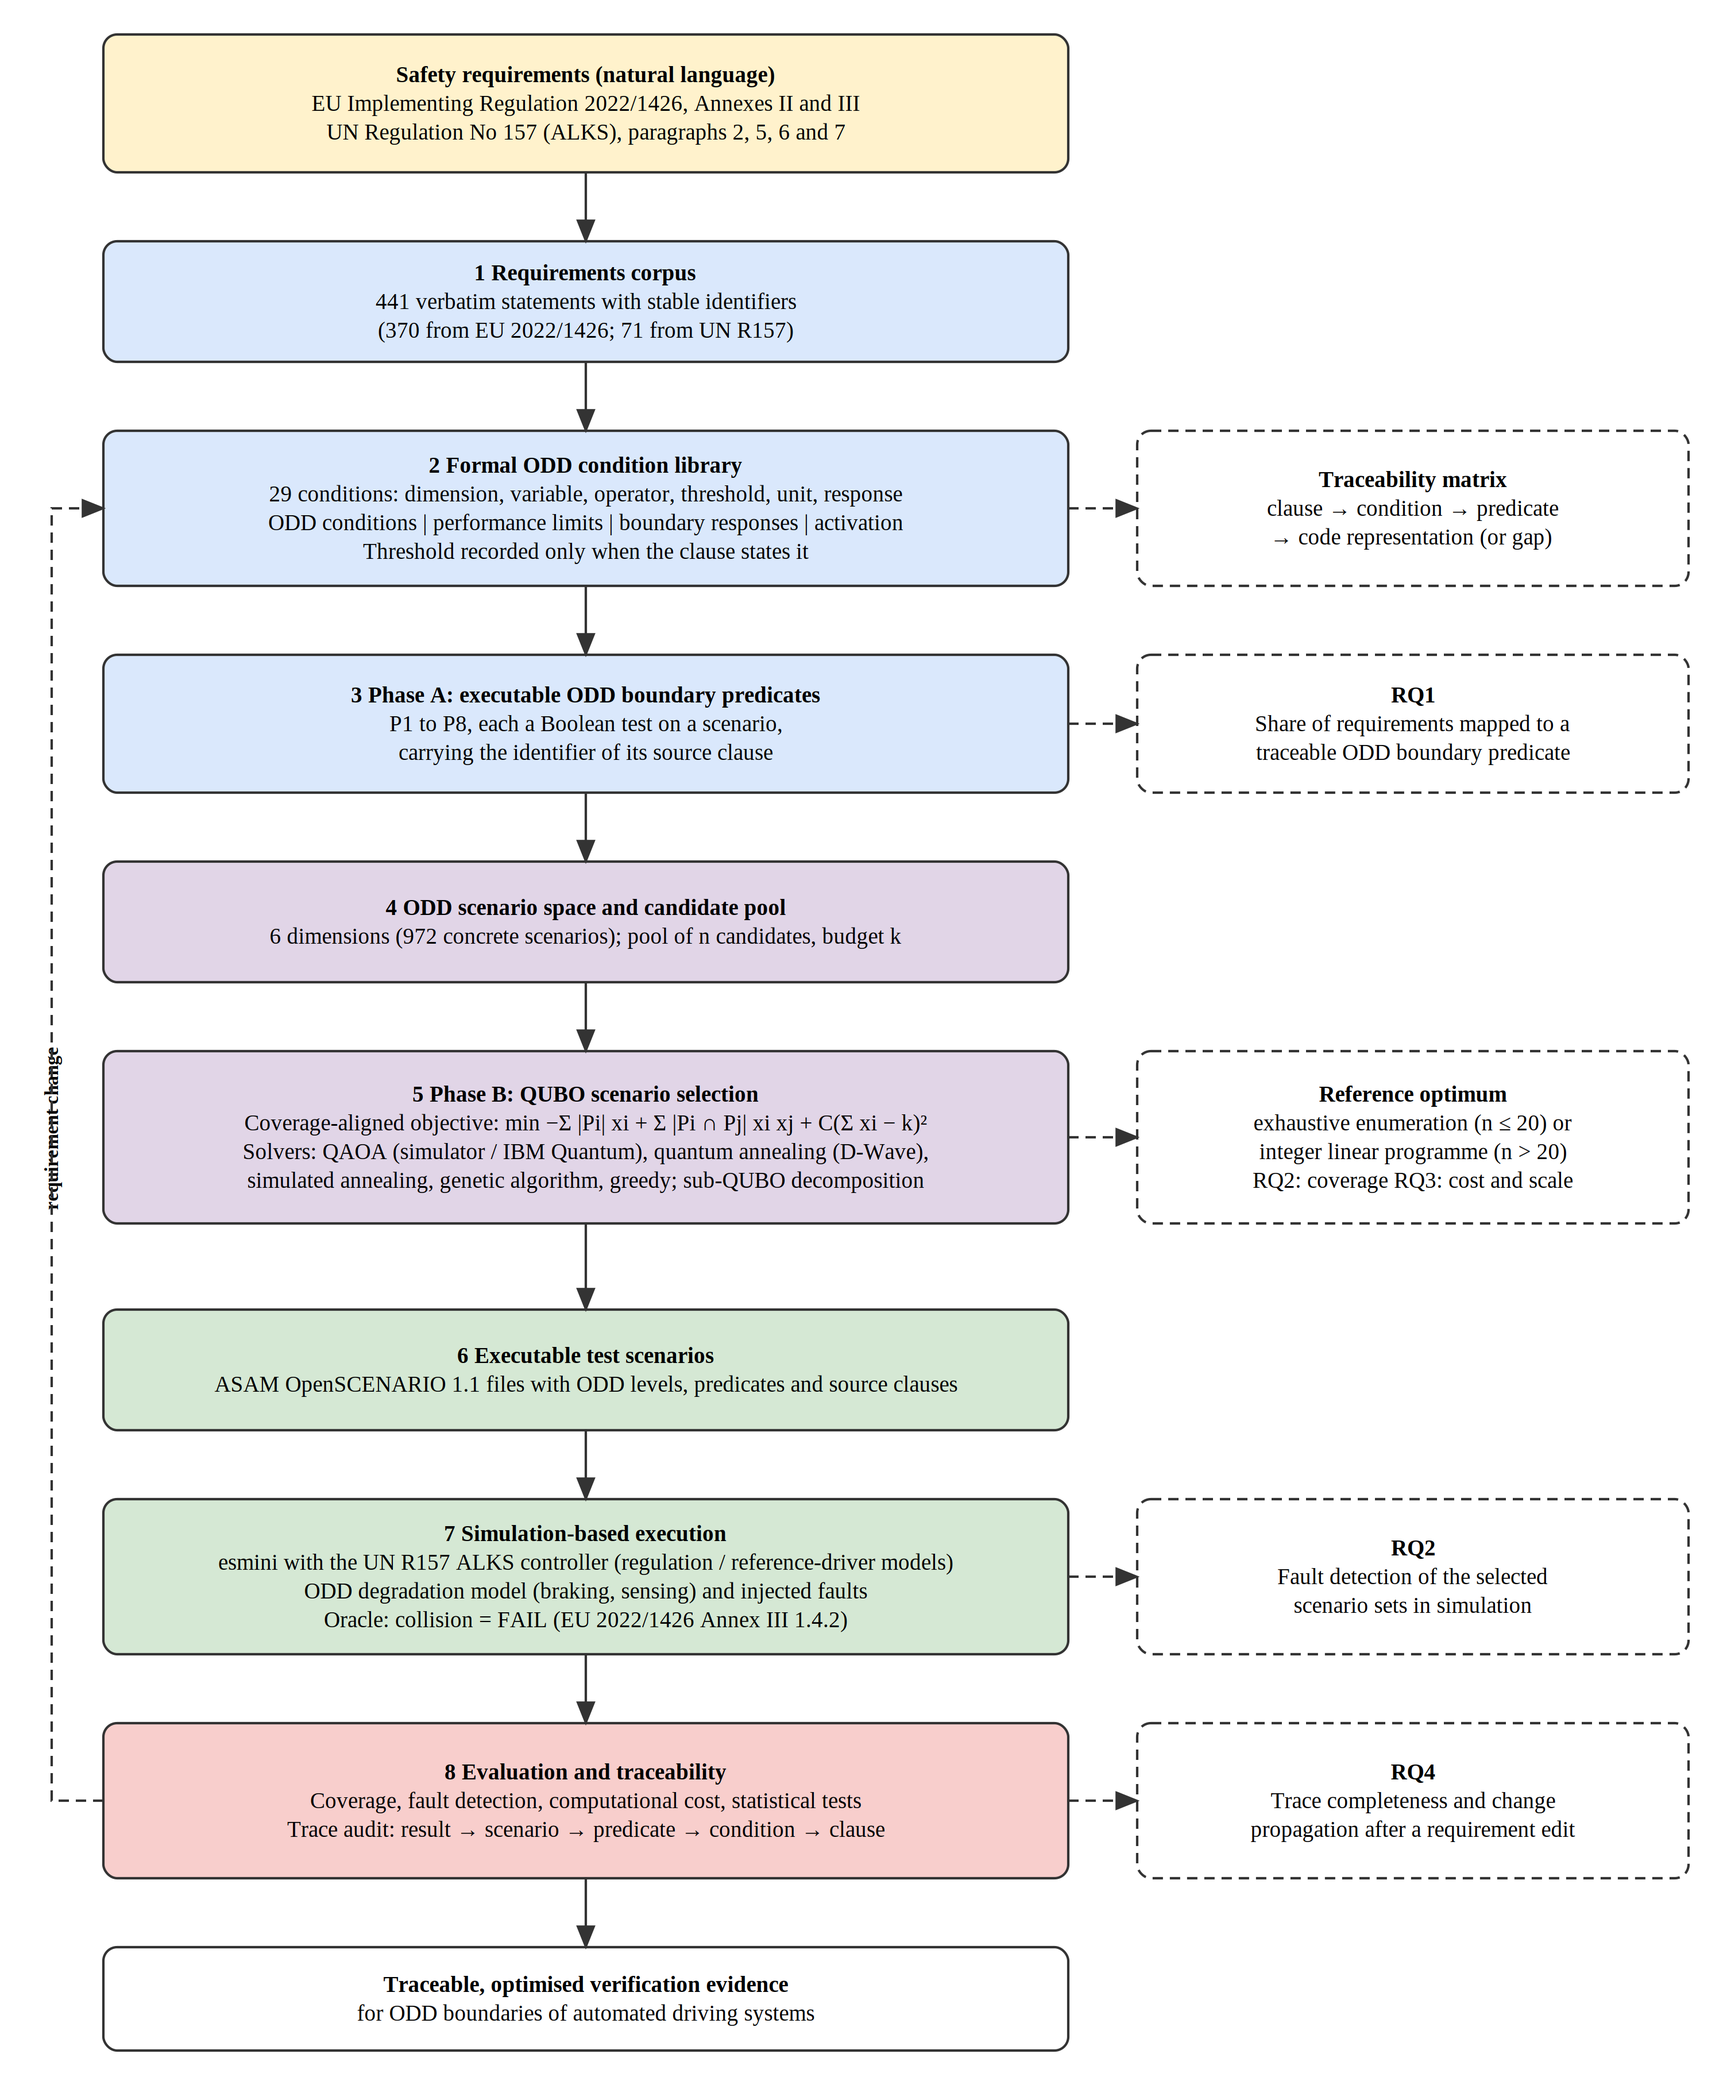
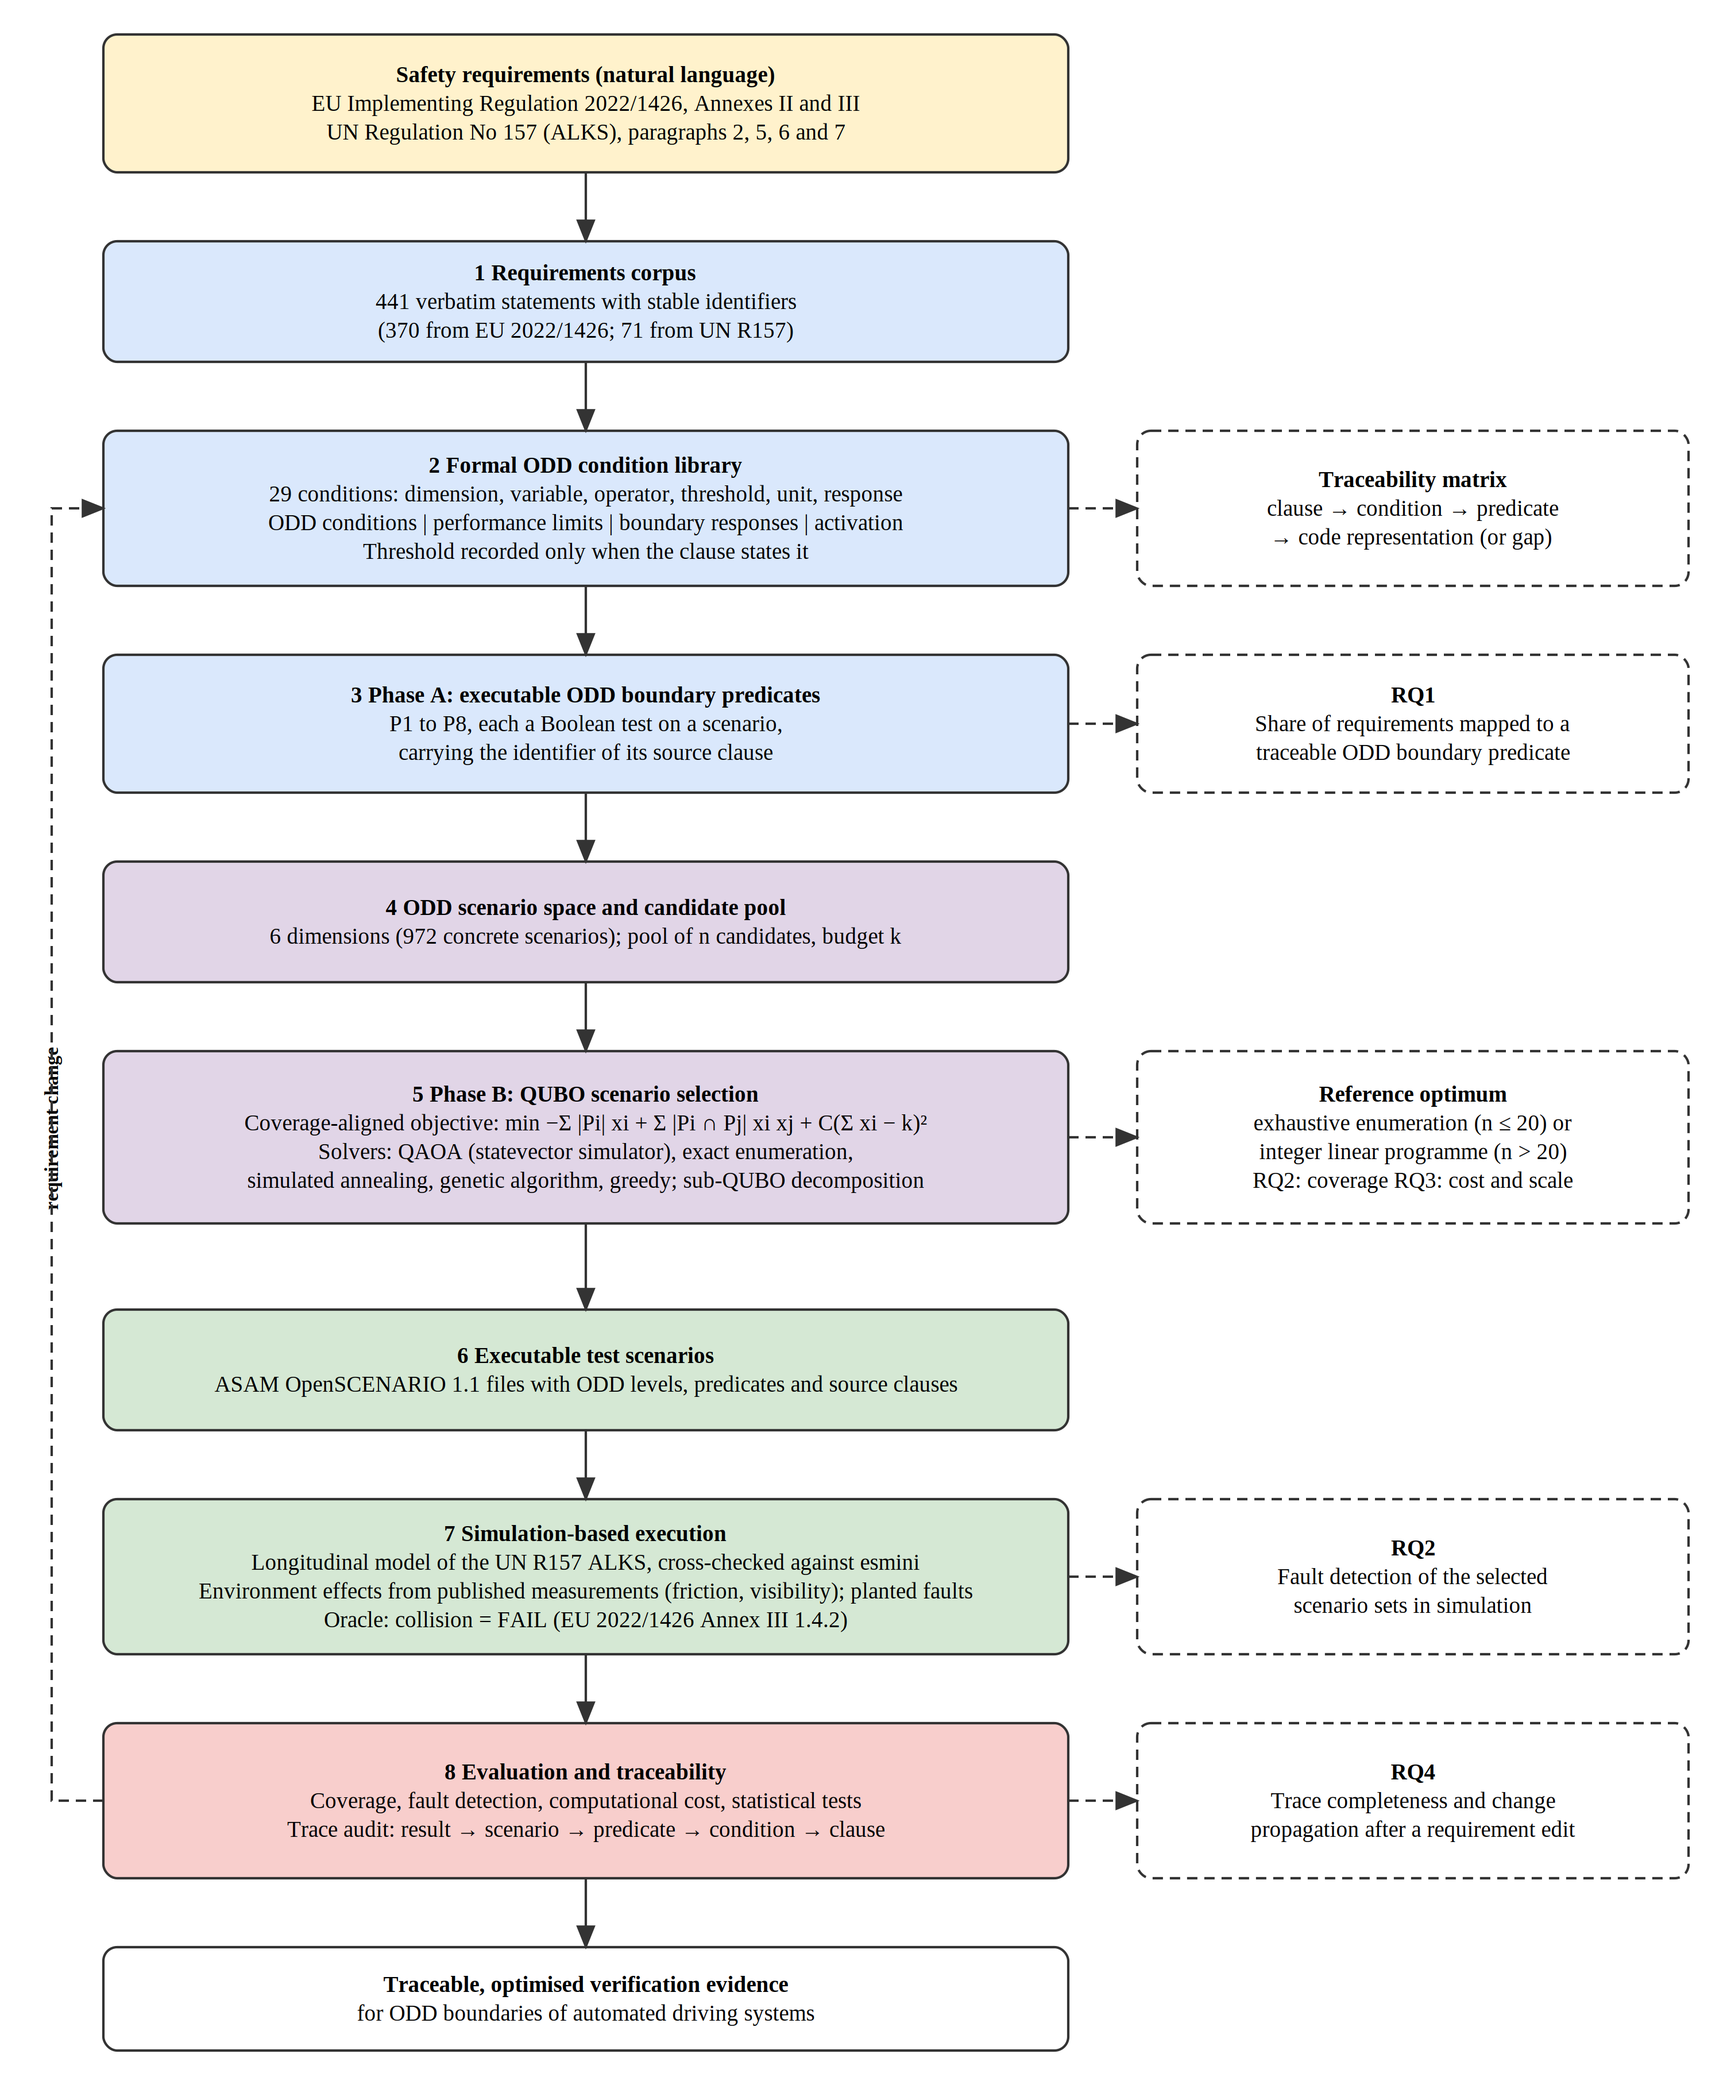
Figures: corrected solver/simulator labels in Fig 3.1 and 3.2, updated PRISMA counts, added Fig 2.2 literature positioning
Claude-Session: https://claude.ai/code/session_0122GSt9Zq6fddTq7qHbYi5D

Changed region(s): [[0.124, 0.7471, 0.558, 0.7782], [0.186, 0.5292, 0.496, 0.5603]]

diff --git a/figures/make_diagrams.py b/figures/make_diagrams.py
@@ -126,31 +126,31 @@ def prisma():
         Box("scl", 20, 220, 40, 290, ["Screening"], fill=blue, rotate=True),
         Box("inl", 20, 540, 40, 90, ["Included"], fill=blue, rotate=True),
         Box("id", 80, 20, 420, 170, [
-            "Records identified (n = 183)",
+            "Records identified (n = 186)",
             "Reference lists of the research proposal",
             "and earlier drafts (n = 134)",
             "Structured keyword search and backward/forward",
             "citation tracing (n = 38)",
             "Standards, regulations, tools and statistical",
-            "methods added during method development (n = 11)"], align="left"),
+            "methods added during method development (n = 14)"], align="left"),
         Box("dup", 560, 70, 320, 70, ["Records removed before screening", "Duplicate records (n = 8)"], fill=grey, align="left"),
-        Box("sc", 80, 250, 420, 60, ["Records screened (n = 175)"]),
+        Box("sc", 80, 250, 420, 60, ["Records screened (n = 178)"]),
         Box("ex1", 560, 225, 320, 110, [
             "Records excluded (n = 9)",
             "Record could not be confirmed (n = 1)",
             "Grey literature, commercial report or",
             "non-peer-reviewed preprint (n = 3)",
             "Outside the scope of the review (n = 5)"], fill=grey, align="left"),
-        Box("fa", 80, 400, 420, 60, ["Full-text records assessed for eligibility (n = 166)"]),
+        Box("fa", 80, 400, 420, 60, ["Full-text records assessed for eligibility (n = 169)"]),
         Box("ex2", 560, 375, 320, 110, [
-            "Records excluded after full text (n = 19)",
+            "Records excluded after full text (n = 9)",
             "Method or dataset not adopted in the",
-            "final design (n = 2)",
-            "Not used in the final synthesis (n = 17)"], fill=grey, align="left"),
+            "final design (n = 1)",
+            "Not used in the final synthesis (n = 8)"], fill=grey, align="left"),
         Box("inc", 80, 540, 420, 90, [
-            "Sources included in the review (n = 147)",
+            "Sources included in the review (n = 160)",
             "of which 45 studies are summarised",
-            "study by study in Table 2.2"]),
+            "study by study in Table 2.10"]),
     ]
     ed = [Edge("id", "sc"), Edge("id", "dup", "right", "left"),
           Edge("sc", "fa"), Edge("sc", "ex1", "right", "left"),
@@ -182,13 +182,13 @@ def architecture():
             "6 dimensions (972 concrete scenarios); pool of n candidates, budget k"], fill=c_b),
         Box("qubo", L, 610, MW, 100, ["5  Phase B: QUBO scenario selection",
             "Coverage-aligned objective: min  −Σ |Pi| xi + Σ |Pi ∩ Pj| xi xj + C(Σ xi − k)²",
-            "Solvers: QAOA (simulator / IBM Quantum), quantum annealing (D-Wave),",
+            "Solvers: QAOA (statevector simulator), exact enumeration,",
             "simulated annealing, genetic algorithm, greedy; sub-QUBO decomposition"], fill=c_b),
         Box("osc", L, 760, MW, 70, ["6  Executable test scenarios",
             "ASAM OpenSCENARIO 1.1 files with ODD levels, predicates and source clauses"], fill=c_c),
         Box("sim", L, 870, MW, 90, ["7  Simulation-based execution",
-            "esmini with the UN R157 ALKS controller (regulation / reference-driver models)",
-            "ODD degradation model (braking, sensing) and injected faults",
+            "Longitudinal model of the UN R157 ALKS, cross-checked against esmini",
+            "Environment effects from published measurements (friction, visibility); planted faults",
             "Oracle: collision = FAIL (EU 2022/1426 Annex III 1.4.2)"], fill=c_c),
         Box("eval", L, 1000, MW, 90, ["8  Evaluation and traceability",
             "Coverage, fault detection, computational cost, statistical tests",
@@ -222,6 +222,46 @@ def architecture():
     write("fig3_1_architecture", bx, ed, W, H, "Proposed model")
 
 
+# ================================================================ Literature positioning (Figure 2.2)
+def positioning():
+    W, H = 1000, 700
+    lit, comp, gap = "#FFF2CC", "#DAE8FC", "#F8CECC"
+    L, LW = 20, 330
+    M, MW = 400, 300
+    R, RW = 750, 230
+    th = [("t1", ["ODD standards and formalisation", "SAE J3016, PAS 1883, ISO 34503,", "ASAM OpenODD, Pkl ODD (Skoglund et al.)"]),
+          ("t2", ["Requirement formalisation", "Req2Spec, FRET, DeepSTL,", "specification patterns, LLM approaches"]),
+          ("t3", ["Natural language to scenarios", "ScenarioNL, TARGET,", "law-derived requirements (Jian et al.)"]),
+          ("t4", ["Scenario selection and coverage", "combinatorial testing, Klück et al.,", "ODD-based allocation"]),
+          ("t5", ["Quantum test optimisation", "BootQA, SelectQA, IGDec-QAOA,", "QAOA selection, Araujo et al."]),
+          ("t6", ["Traceability and change", "Wohlrab et al., TVR,", "ODD mapping study (Hillen et al.)"])]
+    bx = [Box("hl", L, 15, LW, 30, ["Reviewed literature (Chapter 2)"], fill="#FFFFFF", stroke="#FFFFFF"),
+          Box("hm", M, 15, MW, 30, ["ReqODD-Q component"], fill="#FFFFFF", stroke="#FFFFFF"),
+          Box("hr", R, 15, RW, 30, ["Gap addressed"], fill="#FFFFFF", stroke="#FFFFFF")]
+    y = 60
+    for tid, lines in th:
+        bx.append(Box(tid, L, y, LW, 90, lines, fill=lit, size=12)); y += 105
+    cm = [("a", 80, ["Phase A", "condition library with trace", "links; boundary predicates"]),
+          ("b", 250, ["Phase B", "coverage-aligned QUBO;", "QAOA, exact and classical solvers"]),
+          ("c", 420, ["Change-aware re-selection", "impact set through trace links;", "stability term"]),
+          ("d", 570, ["Fault-detection evaluation", "R157 model, sourced environment,", "mutation analysis"])]
+    for cid, yy, lines in cm:
+        bx.append(Box(cid, M, yy, MW, 90, lines, fill=comp, size=12))
+    gp = [("g1", 80, ["Gap 1", "ODD not derived from", "stated requirements"]),
+          ("g2", 200, ["Gap 2", "no optimised selection from", "requirement-level conditions"]),
+          ("g3", 320, ["Gap 3", "formulation fidelity", "not examined"]),
+          ("g4", 440, ["Gap 4", "no change-aware", "re-selection"])]
+    for gid, yy, lines in gp:
+        bx.append(Box(gid, R, yy, RW, 80, lines, fill=gap, size=12))
+    ed = [Edge("t1", "a", "right", "left"), Edge("t2", "a", "right", "left"), Edge("t3", "a", "right", "left", dashed=True),
+          Edge("t4", "b", "right", "left"), Edge("t5", "b", "right", "left"), Edge("t6", "c", "right", "left"),
+          Edge("t4", "d", "right", "left", dashed=True),
+          Edge("a", "g1", "right", "left"), Edge("b", "g2", "right", "left"), Edge("b", "g3", "right", "left"),
+          Edge("c", "g4", "right", "left")]
+    write("fig2_2_positioning", bx, ed, W, H, "Literature positioning")
+
+
 if __name__ == "__main__":
     prisma()
     architecture()
+    positioning()

diff --git a/figures/make_framework.py b/figures/make_framework.py
@@ -101,7 +101,7 @@ band(20, 130, 170, 40, "INPUTS")
 inputs = [("doc", ["Regulatory safety", "requirements", "(EU 2022/1426, R157)"]),
           ("network", ["ODD taxonomies", "(ISO 34503, PAS 1883)"]),
           ("grid", ["ODD scenario", "parameter space"]),
-          ("car", ["System under test", "(R157 ALKS controller)"])]
+          ("car", ["System under test", "(R157 ALKS model)"])]
 for i, (ic, lines) in enumerate(inputs):
     y = 190 + i * 160
     icon(ic, 85, y, 44)
@@ -140,8 +140,8 @@ band(PX + PW / 2 - 150, 390, 300, 28, "ReqODD-Q PIPELINE (6 STAGES)", size=13)
 stages = [("doc", ["Requirements", "Formalisation"], ["Corpus, condition", "library and traced", "predicates"], "RQ1"),
           ("grid", ["ODD Scenario", "Space"], ["6 dimensions,", "972 scenarios,", "candidate pools"], "EU 2022/1426 3.1.4.1"),
           ("matrix", ["QUBO", "Formulation"], ["Coverage-aligned", "objective, budget,", "exact reference"], "RQ2"),
-          ("atom", ["Hybrid Quantum-", "Classical Solving"], ["QAOA, annealing,", "SA, GA, greedy;", "decomposition"], "RQ3"),
-          ("sim", ["Scenario Generation", "and Simulation"], ["OpenSCENARIO 1.1,", "esmini, R157 ALKS,", "fault injection"], "RQ2"),
+          ("atom", ["Hybrid Quantum-", "Classical Solving"], ["QAOA, exact,", "SA, GA, greedy;", "decomposition"], "RQ3"),
+          ("sim", ["Scenario Generation", "and Simulation"], ["OpenSCENARIO 1.1,", "R157 ALKS model,", "planted faults"], "RQ2"),
           ("check", ["Evaluation and", "Traceability"], ["Coverage, faults,", "cost, statistics,", "trace audit"], "RQ4")]
 SW, SG, SY, SH = 156, 20, 426, 178
 for i, (ic, title, desc, tag) in enumerate(stages):
@@ -160,8 +160,8 @@ rect(PX, 632, PW, 250, fill=L2C, r=10, sw=2)
 band(PX + 20, 622, 140, 26, "LAYER 2", size=13)
 text(PX, 650, PW, 28, ["Quantum Optimisation and Verification Layer"], size=19, bold=True)
 l2 = [("matrix", "Coverage-Aligned QUBO", ["min −Σ|Pi|xi + Σ|Pi ∩ Pj|xixj", "+ C(Σxi − k)²; exact optimum as reference"]),
-      ("atom", "Quantum and Classical Solvers", ["QAOA (simulator, IBM Quantum), quantum", "annealing (D-Wave), SA, GA, greedy"]),
-      ("sim", "Simulation-Based Verification", ["esmini with the R157 ALKS controller;", "oracle: collision = FAIL (Annex III 1.4.2)"])]
+      ("atom", "Quantum and Classical Solvers", ["QAOA (statevector simulator), exact", "optimum, SA, GA, greedy, decomposition"]),
+      ("sim", "Simulation-Based Verification", ["R157 ALKS model cross-checked with esmini;", "oracle: collision = FAIL (Annex III 1.4.2)"])]
 for i, (ic, title, desc) in enumerate(l2):
     x = 250 + i * 340
     rect(x, 684, 320, 180, r=8)
